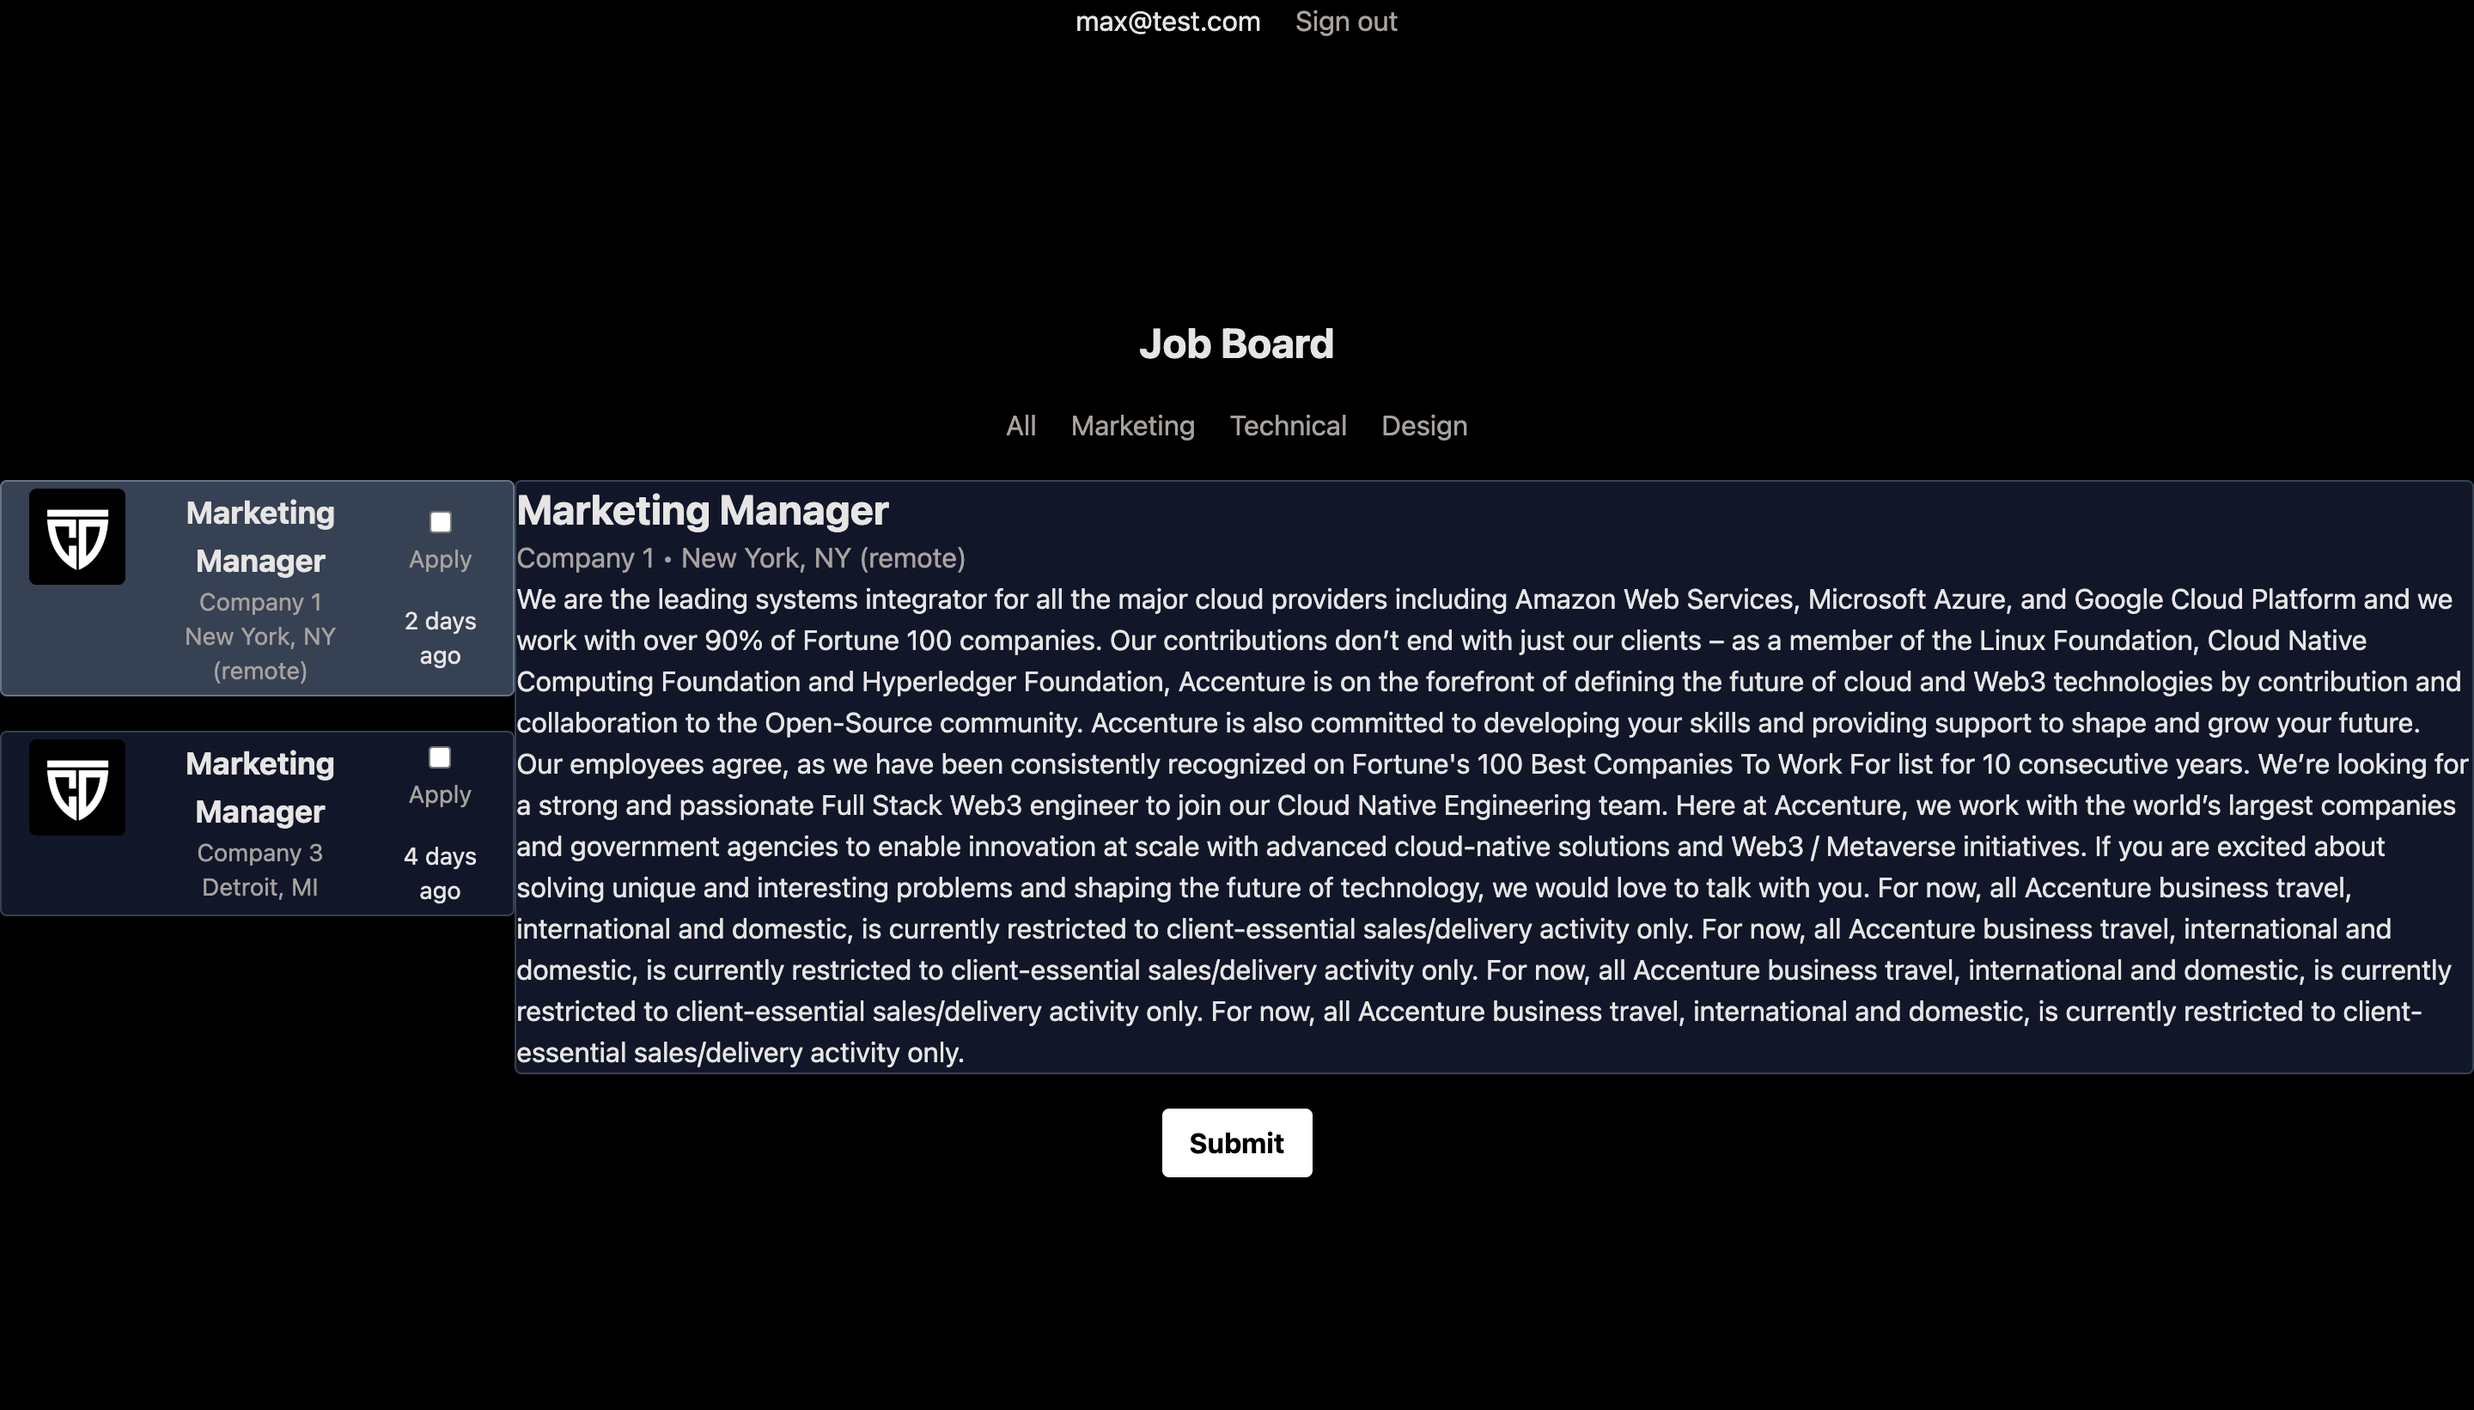
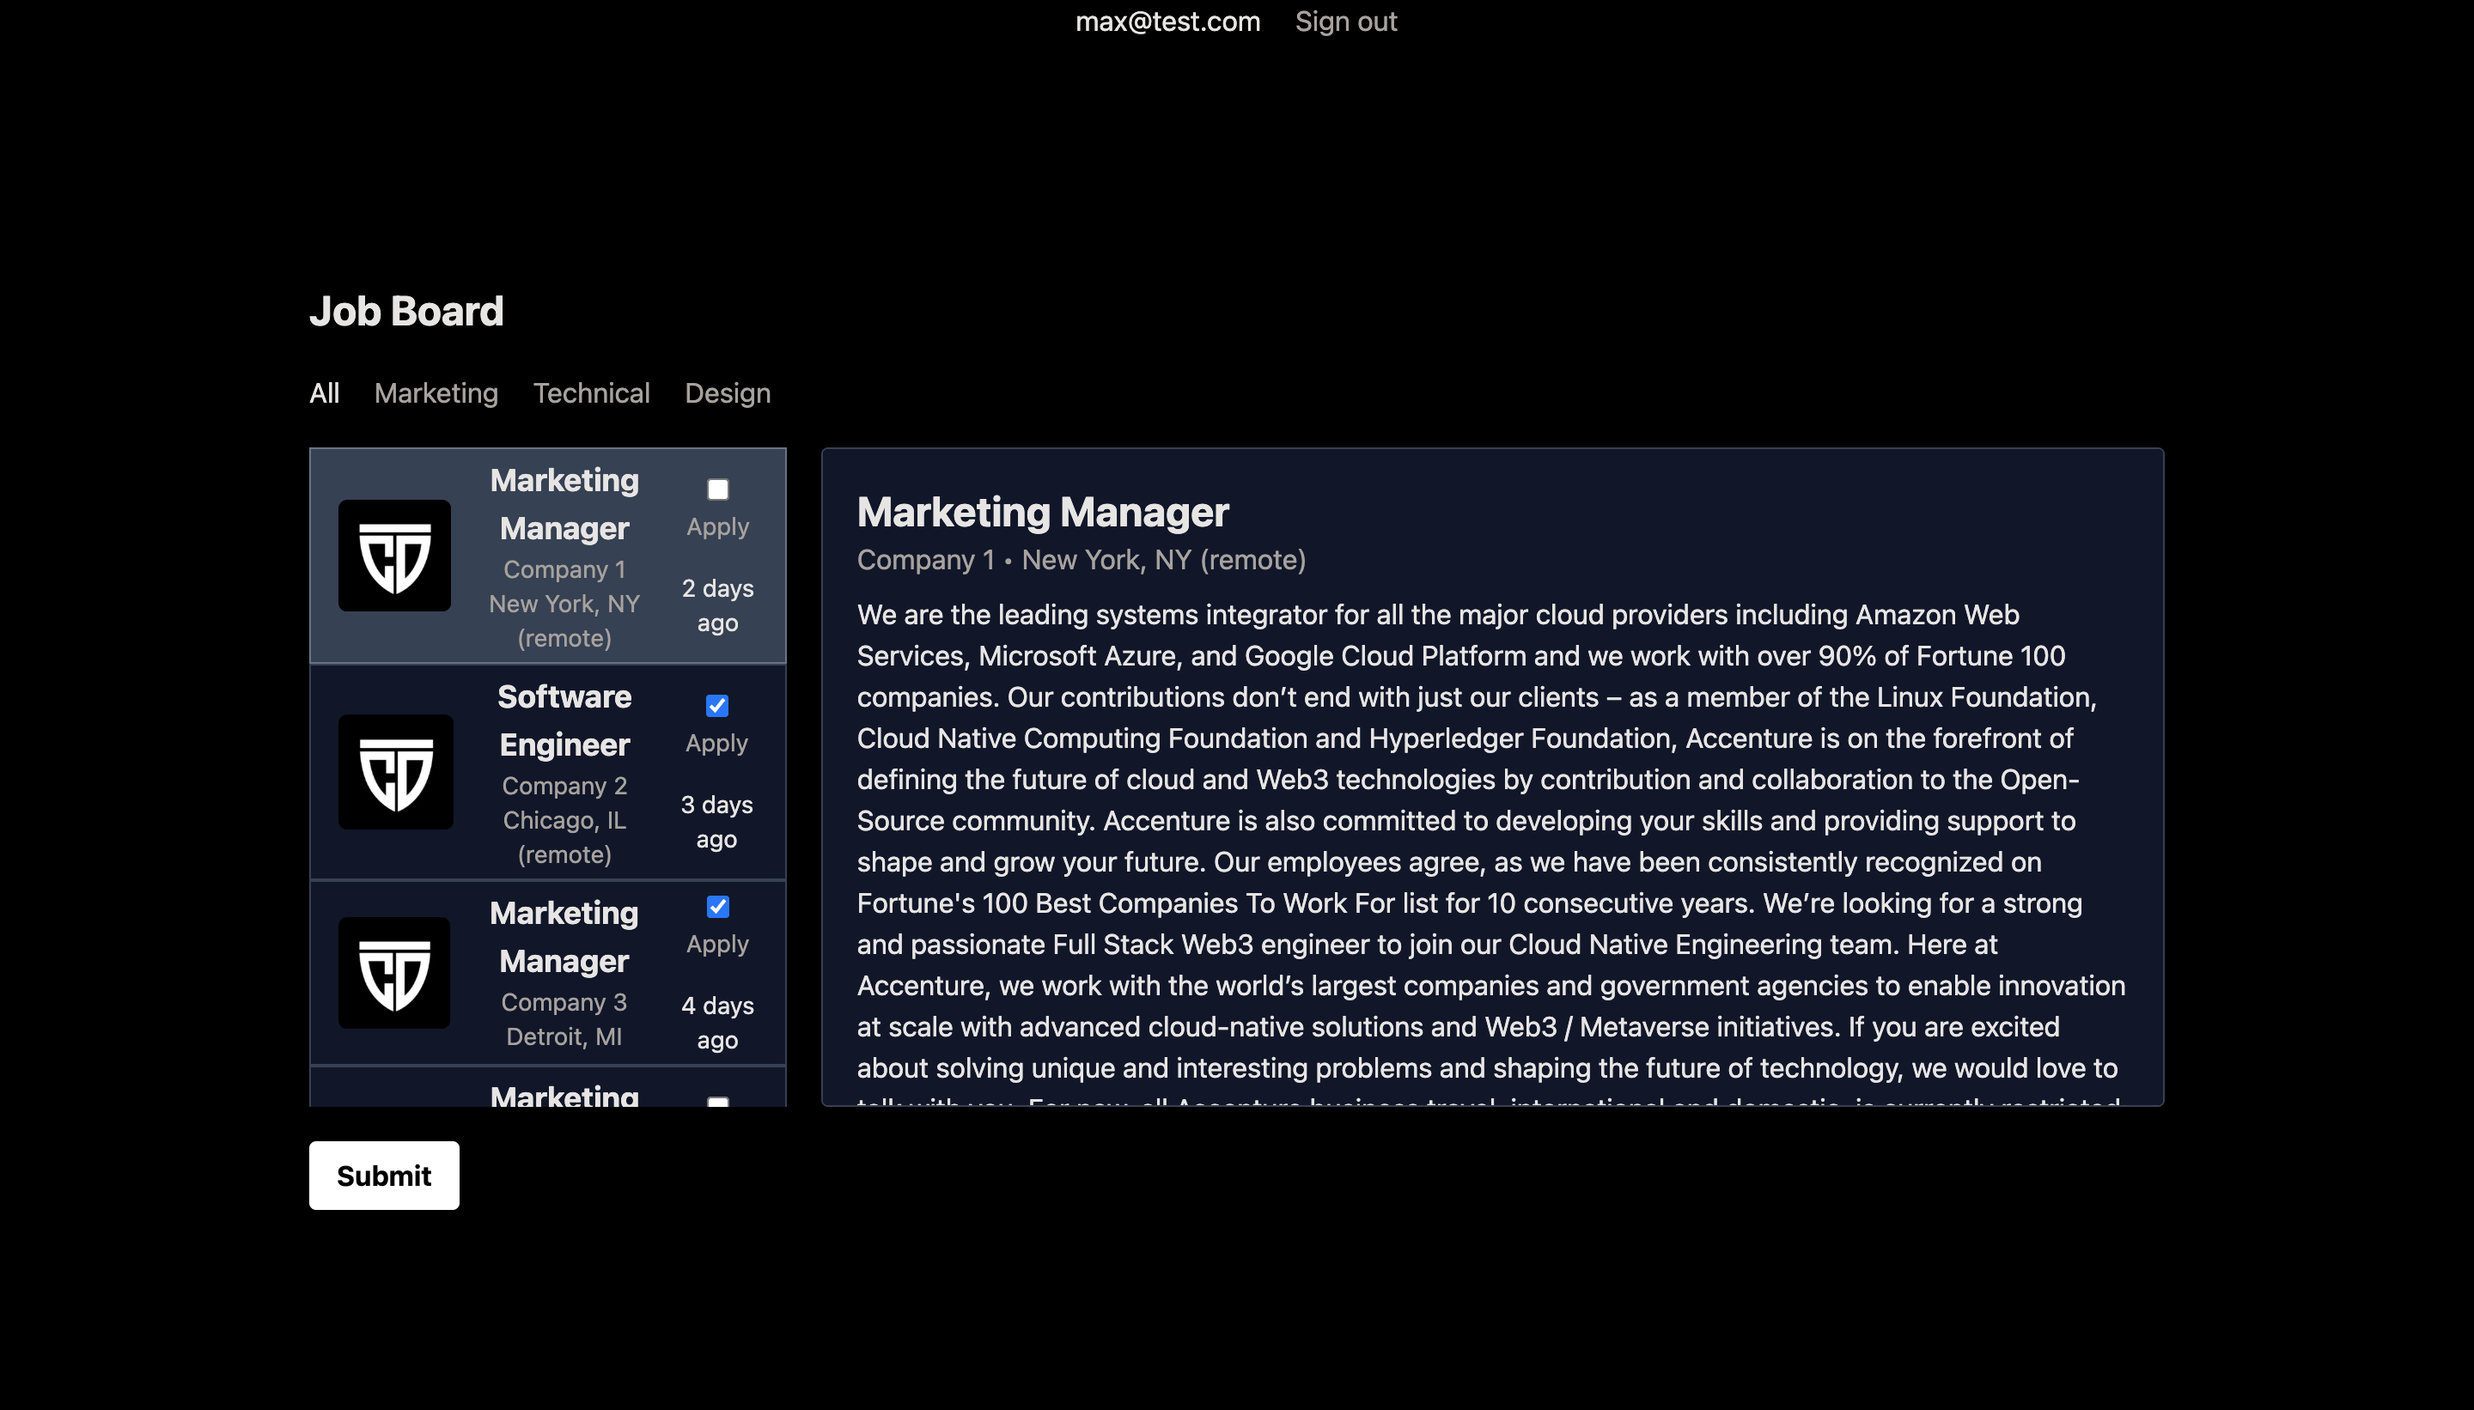
set up hosting, controlled categories

Changed region(s): [[0.0, 0.2174, 1.0, 0.8697]]

diff --git a/app/board/page.tsx b/app/board/page.tsx
@@ -2,40 +2,22 @@
 
 import Image from "next/image";
 import { useState } from "react";
+import DetailView from "../../components/board/detail-view";
+import Job from "../../components/board/job";
 
 export default function Home() {
 
   return (
-    <div className="flex h-screen bg-black">
+    <div className="flex flex-col h-screen w-screen justify-center items-center bg-black">
       <JobBoard jobs={MOCK_JOBS} />
     </div>
   );
 }
 
-function DetailView({ expandedJob }: { expandedJob: any }) {
-  if (expandedJob.hasOwnProperty('id')) {
-    return (
-      <div className="w-full h-full rounded border border-slate-700 bg-slate-900 ">
-        <div className="flex flex-col text-stone-200">
-          <h1 className="text-2xl font-bold">{expandedJob.title}</h1>
-          <p className="text-md  text-stone-400">{`${expandedJob.company} • ${expandedJob.location}`}</p>
-          <p className="text-md  text-stone-400"></p>
-          <p className="text-md ">{expandedJob.description}</p>
-        </div>
-
-      </div>
-    );
-  }
-  else
-    return (
-      <>
-      </>
-    );
-}
-
 function JobBoard({ jobs, }: { jobs: any[] }) {
   const [selectedCategory, setSelectedCategory] = useState("all");
-  const [expandedJob, setExpandedJob] = useState({});
+  const defaultJob: Job = { id: -1 };
+  const [expandedJob, setExpandedJob] = useState(defaultJob);
 
   const filteredJobs = jobs.filter((job: any) => {
     return selectedCategory === 'all' || job.category === selectedCategory;
@@ -45,12 +27,7 @@ function JobBoard({ jobs, }: { jobs: any[] }) {
 
   const handleJobExpand = (event: any) => {
     const nextJob = jobs.find(job => job.id == event.currentTarget.value);
-    if (nextJob != expandedJob) {
-      setExpandedJob(nextJob);
-    }
-    else {
-      setExpandedJob({});
-    }
+    (nextJob != expandedJob) ? setExpandedJob(nextJob) : setExpandedJob(defaultJob);
   }
 
   const handleSubmit = () => {
@@ -58,13 +35,13 @@ function JobBoard({ jobs, }: { jobs: any[] }) {
   }
 
   return (
-    <div className="w-screen h-screen flex flex-col space-y-5 justify-center items-center">
-
+    // taking out flex fixed a lot of the issues
+    <div className="w-3/4 flex-col m-5 space-y-5">
       <h1 className="text-stone-200 font-bold text-2xl"> Job Board </h1>
       <Categories selectedCategory={selectedCategory} setSelectedCategory={setSelectedCategory} />
-      <div className="flex flex-row justify-center">
+      <div className="flex flex-row space-x-5">
         {/* list of jobs */}
-        <div className="flex flex-col space-y-5">
+        <div className="flex flex-col max-h-96 w-96 overflow-scroll">
           {filteredJobs.map(job =>
             <button key={job.id} value={job.id} onClick={handleJobExpand}>
               <Job
@@ -78,79 +55,46 @@ function JobBoard({ jobs, }: { jobs: any[] }) {
         <DetailView expandedJob={expandedJob} />
       </div>
       <button className="bg-white text-black font-bold py-2 px-4 rounded" onClick={handleSubmit}> Submit </button>
-
     </div >
   )
 }
 
 // button needs value prop can pass information to state
 // TODO: continue to be white after click
-const Categories = ({ selectedCategory, setSelectedCategory }: any) => {
-  const handleCategoryChange = (event: any) => {
-    setSelectedCategory(event.target.value);
-  };
+function Categories({ selectedCategory, setSelectedCategory }: any) {
 
   return (
     <div className="flex flex-row space-x-5">
-      <button value="all" onClick={handleCategoryChange} className="text-stone-400 hover:text-stone-200">All</button>
-      <button value="marketing" onClick={handleCategoryChange} className="text-stone-400 hover:text-stone-200">Marketing</button>
-      <button value="technical" onClick={handleCategoryChange} className="text-stone-400 hover:text-stone-200">Technical</button>
-      <button value="design" onClick={handleCategoryChange} className="text-stone-400 hover:text-stone-200">Design</button>
+      <CategoryItem value="all" onSelectedCategoryChange={setSelectedCategory} isSelected={selectedCategory == "all"} />
+      <CategoryItem value="marketing" onSelectedCategoryChange={setSelectedCategory} isSelected={selectedCategory == "marketing"} />
+      <CategoryItem value="technical" onSelectedCategoryChange={setSelectedCategory} isSelected={selectedCategory == "technical"} />
+      <CategoryItem value="design" onSelectedCategoryChange={setSelectedCategory} isSelected={selectedCategory == "design"} />
     </div >
   );
 };
 
-function Job({ job, onSelectionChange, isExpanded }: { job: any, onSelectionChange: any, isExpanded: boolean }) {
-
-  function handleChange(event: any) {
-    // TODO: why doesn't this work?
-    event.stopPropagation();
-    if (event.target.checked) {
-      onSelectionChange((selectedJobs: any) => selectedJobs.concat(job.id));
-    }
-    else if (!event.target.checked) {
-      onSelectionChange((selectedJobs: any) => selectedJobs.filter((id: any) => id !== job.id));
-    }
+function CategoryItem({ value, onSelectedCategoryChange, isSelected }: any) {
+  const handleClick = (e: any) => {
+    onSelectedCategoryChange(e.target.value);
   }
 
-  var jobDivClass = "flex flex-row px-4 space-x-4 py-1 rounded border ";
-  if (isExpanded) {
-    jobDivClass += "border-slate-500 bg-slate-700";
-  }
-  else {
-    jobDivClass += "border-slate-700 bg-slate-900";
-  }
-
+  var className = isSelected ? "text-stone-200" : "text-stone-400";
+  className += " hover:text-stone-200";
 
   return (
-    <div className={jobDivClass}>
+    <button onClick={handleClick} value={value} className={className}>{value.charAt(0).toUpperCase() + value.slice(1)}</button>
+  )
+}
 
-      <div >
-        <Image
-          src={job.logo}
-          alt="Company logo"
-          width={75}
-          height={75}
-        />
-      </div>
-
-
-      <div className="flex flex-col">
-        <p className="text-stone-200 font-bold text-lg text-left"> {job.title}</p>
-        <p className="text-stone-400 text-sm"> {job.company}</p>
-        <p className="text-stone-400 text-sm"> {job.location}</p>
-      </div>
-
-      <div className="flex flex-col justify-center space-y-4">
-        <label className="text-stone-400 text-sm">
-          <input className="m-1" type="checkbox" value={job.id} onChange={handleChange} />
-          Apply
-        </label>
-        <p className="text-stone-200 text-sm"> {job.createdAt} </p>
-      </div>
-
-    </div>
-  );
+interface Job {
+  id: number;
+  title?: string,
+  description?: string,
+  company?: string,
+  logo?: string,
+  createdAt?: string,
+  category?: string,
+  location?: string,
 }
 
 const MOCK_JOBS = [
@@ -176,6 +120,36 @@ const MOCK_JOBS = [
   },
   {
     id: 3,
+    title: "Marketing Manager",
+    description: "Lorem ipsum dolor sit amet, consectetur adipiscing elit, sed do eiusmod tempor incididunt ut labore et dolore magna aliqua.",
+    company: "Company 3",
+    logo: "/logo.png",
+    createdAt: "4 days ago",
+    category: "marketing",
+    location: "Detroit, MI",
+  },
+  {
+    id: 4,
+    title: "Marketing Manager",
+    description: "We are the leading systems integrator for all the major cloud providers including Amazon Web Services, Microsoft Azure, and Google Cloud Platform and we work with over 90% of Fortune 100 companies. Our contributions don’t end with just our clients – as a member of the Linux Foundation, Cloud Native Computing Foundation and Hyperledger Foundation, Accenture is on the forefront of defining the future of cloud and Web3 technologies by contribution and collaboration to the Open-Source community. Accenture is also committed to developing your skills and providing support to shape and grow your future. Our employees agree, as we have been consistently recognized on Fortune's 100 Best Companies To Work For list for 10 consecutive years. We’re looking for a strong and passionate Full Stack Web3 engineer to join our Cloud Native Engineering team. Here at Accenture, we work with the world’s largest companies and government agencies to enable innovation at scale with advanced cloud-native solutions and Web3 / Metaverse initiatives. If you are excited about solving unique and interesting problems and shaping the future of technology, we would love to talk with you. For now, all Accenture business travel, international and domestic, is currently restricted to client-essential sales/delivery activity only. For now, all Accenture business travel, international and domestic, is currently restricted to client-essential sales/delivery activity only. For now, all Accenture business travel, international and domestic, is currently restricted to client-essential sales/delivery activity only. For now, all Accenture business travel, international and domestic, is currently restricted to client-essential sales/delivery activity only.",
+    company: "Company 1",
+    logo: "/logo.png",
+    createdAt: "2 days ago",
+    category: "marketing",
+    location: "New York, NY (remote)",
+  },
+  {
+    id: 5,
+    title: "Software Engineer",
+    description: "Lorem ipsum dolor sit amet, consectetur adipiscing elit, sed do eiusmod tempor incididunt ut labore et dolore magna aliqua.",
+    company: "Company 2",
+    logo: "/logo.png",
+    createdAt: "3 days ago",
+    category: "technical",
+    location: "Chicago, IL (remote)",
+  },
+  {
+    id: 6,
     title: "Marketing Manager",
     description: "Lorem ipsum dolor sit amet, consectetur adipiscing elit, sed do eiusmod tempor incididunt ut labore et dolore magna aliqua.",
     company: "Company 3",

diff --git a/components/board/job.tsx b/components/board/job.tsx
@@ -1,0 +1,56 @@
+import Image from 'next/image';
+
+export default function Job({ job, onSelectionChange, isExpanded }: { job: any, onSelectionChange: any, isExpanded: boolean }) {
+
+  function handleChange(event: any) {
+    // TODO: why doesn't this work?
+    event.stopPropagation();
+    if (event.target.checked) {
+      onSelectionChange((selectedJobs: any) => selectedJobs.concat(job.id));
+    }
+    else if (!event.target.checked) {
+      onSelectionChange((selectedJobs: any) => selectedJobs.filter((id: any) => id !== job.id));
+    }
+  }
+
+  var jobDivClass = "flex flex-row px-4 space-x-3 py-1 border ";
+  if (isExpanded) {
+    jobDivClass += "border-slate-500 bg-slate-700";
+  }
+  else {
+    jobDivClass += "border-slate-700 bg-slate-900";
+  }
+
+  return (
+    <div className={jobDivClass}>
+
+      {/* align this image centrally along the y axis: */}
+
+      {/* <div className="flex flex-col justify-center"> */}
+      <div className="flex flex-col justify-center">
+        <Image
+
+          src={job.logo}
+          alt="Company logo"
+          width={100}
+          height={100}
+        />
+      </div>
+
+      <div className="flex flex-col">
+        <p className="text-stone-200 font-bold text-lg"> {job.title}</p>
+        <p className="text-stone-400 text-sm"> {job.company}</p>
+        <p className="text-stone-400 text-sm"> {job.location}</p>
+      </div>
+
+      <div className="flex flex-col justify-center space-y-4">
+        <label className="text-stone-400 text-sm">
+          <input className="m-1" type="checkbox" value={job.id} onChange={handleChange} />
+          Apply
+        </label>
+        <p className="text-stone-200 text-sm"> {job.createdAt} </p>
+      </div>
+
+    </div>
+  );
+}

diff --git a/components/board/detail-view.tsx b/components/board/detail-view.tsx
@@ -1,0 +1,22 @@
+export default function DetailView({ expandedJob }: { expandedJob: any }) {
+  if (expandedJob.hasOwnProperty('createdAt')) {
+    return (
+      <div className="w-full h-full max-h-96 overflow-scroll rounded border border-slate-700 bg-slate-900 ">
+        <div className="flex flex-col text-stone-200 p-5">
+          <h1 className="text-2xl font-bold">{expandedJob.title}</h1>
+          <p className="text-md  text-stone-400 pb-2">{`${expandedJob.company} • ${expandedJob.location}`}</p>
+          <p className="text-md  text-stone-400"></p>
+          <p className="text-md ">{expandedJob.description}</p>
+        </div>
+      </div>
+    );
+  }
+  else
+    return (
+      <div className="w-full h-full rounded border border-slate-700 bg-slate-900 ">
+        <div className="flex flex-col text-stone-200">
+          <h1 className="text-2xl font-bold">Please select a post</h1>
+        </div>
+      </div>
+    );
+}

diff --git a/app/page.tsx b/app/page.tsx
@@ -17,7 +17,7 @@ export default function Home() {
             College DAO job board
           </h1>
           <p className="text-stone-400 mt-5">
-            Community-excusive opportunities
+            Community-exlcusive opportunities
           </p>
         </div>
         <div className="flex space-x-3">

diff --git a/README.md b/README.md
@@ -1,7 +1,11 @@
 # College DAO jobs
+This is a simple job board for the College DAO. It's built with Next.js and Tailwind CSS.
 ![Home page](https://github.com/maxwalts/collegedao-jobs/blob/main/public/ss-1.png?raw=true)
-![Board page](https://github.com/maxwalts/collegedao-jobs/blob/main/public/ss-2.png?raw=true)
 ![Detail view](https://github.com/maxwalts/collegedao-jobs/blob/main/public/ss-3.png?raw=true)
 
-## development details
-Database at: https://railway.app/project/86ea6f9c-5572-4fde-a050-e1b12ef66b4d/plugin/b3ffeb79-c809-4c61-9d51-6873d9a7b93c
+## How to run locally
+```bash
+yarn install
+yarn dev
+```
+Database at: https://railway.app/project/86ea6f9c-5572-4fde-a050-e1b12ef66b4d/plugin/b3ffeb79-c809-4c61-9d51-6873d9a7b93c (ask for access)
